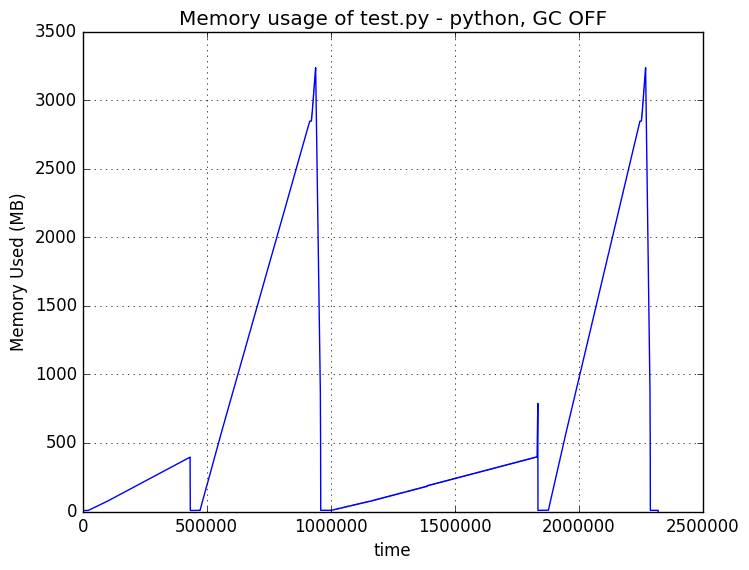
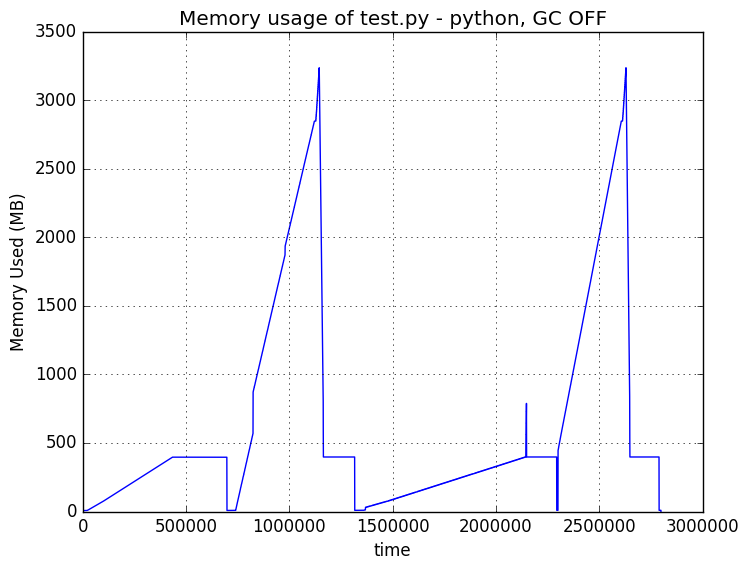
Check each method gives the same results

diff --git a/python_speed_tests/string_concat/test.py b/python_speed_tests/string_concat/test.py
@@ -29,7 +29,7 @@ def concat_naive(times):
     for n in xrange(times):
         a += str(n)
     delta = time.time() - start
-    return delta
+    return (a, delta)
 
 # *REALLY* slow!
 def concat_mutable(times):
@@ -38,7 +38,7 @@ def concat_mutable(times):
     for n in xrange(times):
         a += str(n)
     delta = time.time() - start
-    return delta
+    return (a, delta)
 
 def concat_array(times):
     a = array('c')
@@ -48,7 +48,7 @@ def concat_array(times):
         #a.extend(str(n))	# slower
     a = ''.join(a)
     delta = time.time() - start
-    return delta
+    return (a, delta)
 
 def concat_join(times):
     a = []
@@ -57,7 +57,7 @@ def concat_join(times):
         a.append(str(n))
     a = ''.join(a)
     delta = time.time() - start
-    return delta
+    return (a, delta)
 
 def concat_stringio(times):
     a = StringIO()
@@ -66,14 +66,14 @@ def concat_stringio(times):
         a.write(str(n))
     a = a.getvalue()
     delta = time.time() - start
-    return delta
+    return (a, delta)
 
 def concat_comprehension(times):
     start = time.time()
     a = [str(n) for n in xrange(times)]
     a = ''.join(a)
     delta = time.time() - start
-    return delta
+    return (a, delta)
 
 if __name__ == '__main__':
     import sys
@@ -103,20 +103,35 @@ if __name__ == '__main__':
     time.sleep(0.5)
     print('Using Python %s on %s' % (platform.python_version(), platform.platform()))
     print('For %d concatenations, GC is %s:' % (TIMES, 'OFF' if gc_off else 'ON'))
-    result = concat_naive(TIMES)
+    (naive_str, result) = concat_naive(TIMES)
     print('        naive: %5.2fs' % result)
+    with open('naive_str.data', 'w') as fd:
+        fd.write(naive_str)
+    del naive_str
     time.sleep(1)
-#    result = concat_array(TIMES)
+#    (array_str, result) = concat_array(TIMES)
 #    print('        array: %5.2fs' % result)
+#    with open('array_str.data', 'w') as fd:
+#        fd.write(array_str)
+#    del array_str
 #    time.sleep(1)
-    result = concat_join(TIMES)
+    (join_str, result) = concat_join(TIMES)
     print('         join: %5.2fs' % result)
+    with open('join_str.data', 'w') as fd:
+        fd.write(join_str)
+    del join_str
     time.sleep(1)
-    result = concat_stringio(TIMES)
+    (stringio_str, result) = concat_stringio(TIMES)
     print('     stringio: %5.2fs' % result)
+    with open('stringio_str.data', 'w') as fd:
+        fd.write(stringio_str)
+    del stringio_str
     time.sleep(1)
-    result = concat_comprehension(TIMES)
+    (comprehension_str, result) = concat_comprehension(TIMES)
     print('comprehension: %5.2fs' % result)
+    with open('comprehension_str.data', 'w') as fd:
+        fd.write(comprehension_str)
+    del comprehension_str
     time.sleep(1)
 
 

diff --git a/python_speed_tests/string_concat/results.rst b/python_speed_tests/string_concat/results.rst
@@ -27,13 +27,13 @@ python running test.py (GC ON)
 +---------------+--------+
 | Method        | Time   |
 +===============+========+
-| naive         |  9.77s |
+| naive         | 10.91s |
 +---------------+--------+
-| join          | 13.54s |
+| join          | 12.41s |
 +---------------+--------+
-| stringio      | 19.44s |
+| stringio      | 22.09s |
 +---------------+--------+
-| comprehension | 11.02s |
+| comprehension | 11.33s |
 +---------------+--------+
 
 .. image:: test.py.python.log.png
@@ -47,13 +47,13 @@ python running test.py (GC OFF)
 +---------------+--------+
 | Method        | Time   |
 +===============+========+
-| naive         |  9.76s |
+| naive         | 11.21s |
 +---------------+--------+
-| join          | 11.48s |
+| join          | 12.49s |
 +---------------+--------+
-| stringio      | 19.05s |
+| stringio      | 21.71s |
 +---------------+--------+
-| comprehension |  9.66s |
+| comprehension | 10.47s |
 +---------------+--------+
 
 .. image:: test.py.python-g.log.png
@@ -67,13 +67,13 @@ python running test2.py (GC ON)
 +---------------+--------+
 | Method        | Time   |
 +===============+========+
-| naive         | 34.95s |
+| naive         | 23.15s |
 +---------------+--------+
 | join          |  0.31s |
 +---------------+--------+
-| stringio      |  0.36s |
+| stringio      |  0.42s |
 +---------------+--------+
-| comprehension |  0.09s |
+| comprehension |  0.12s |
 +---------------+--------+
 
 .. image:: test2.py.python.log.png
@@ -87,13 +87,13 @@ python running test2.py (GC OFF)
 +---------------+--------+
 | Method        | Time   |
 +===============+========+
-| naive         | 36.02s |
+| naive         | 37.25s |
 +---------------+--------+
-| join          |  0.31s |
+| join          |  0.30s |
 +---------------+--------+
-| stringio      |  0.36s |
+| stringio      |  0.42s |
 +---------------+--------+
-| comprehension |  0.09s |
+| comprehension |  0.12s |
 +---------------+--------+
 
 .. image:: test2.py.python-g.log.png
@@ -107,13 +107,13 @@ python3 running test.py (GC ON)
 +---------------+--------+
 | Method        | Time   |
 +===============+========+
-| naive         | 13.26s |
+| naive         | 13.27s |
 +---------------+--------+
-| join          | 14.80s |
+| join          | 17.80s |
 +---------------+--------+
-| stringio      | 16.13s |
+| stringio      | 15.10s |
 +---------------+--------+
-| comprehension | 12.33s |
+| comprehension | 11.53s |
 +---------------+--------+
 
 .. image:: test.py.python3.log.png
@@ -127,13 +127,13 @@ python3 running test.py (GC OFF)
 +---------------+--------+
 | Method        | Time   |
 +===============+========+
-| naive         | 13.27s |
+| naive         | 13.25s |
 +---------------+--------+
-| join          | 15.82s |
+| join          | 19.00s |
 +---------------+--------+
-| stringio      | 16.15s |
+| stringio      | 15.99s |
 +---------------+--------+
-| comprehension | 12.97s |
+| comprehension | 12.54s |
 +---------------+--------+
 
 .. image:: test.py.python3-g.log.png
@@ -147,11 +147,11 @@ python3 running test2.py (GC ON)
 +---------------+--------+
 | Method        | Time   |
 +===============+========+
-| naive         |  0.27s |
+| naive         |  0.26s |
 +---------------+--------+
 | join          |  0.29s |
 +---------------+--------+
-| stringio      |  0.29s |
+| stringio      |  0.30s |
 +---------------+--------+
 | comprehension |  0.10s |
 +---------------+--------+
